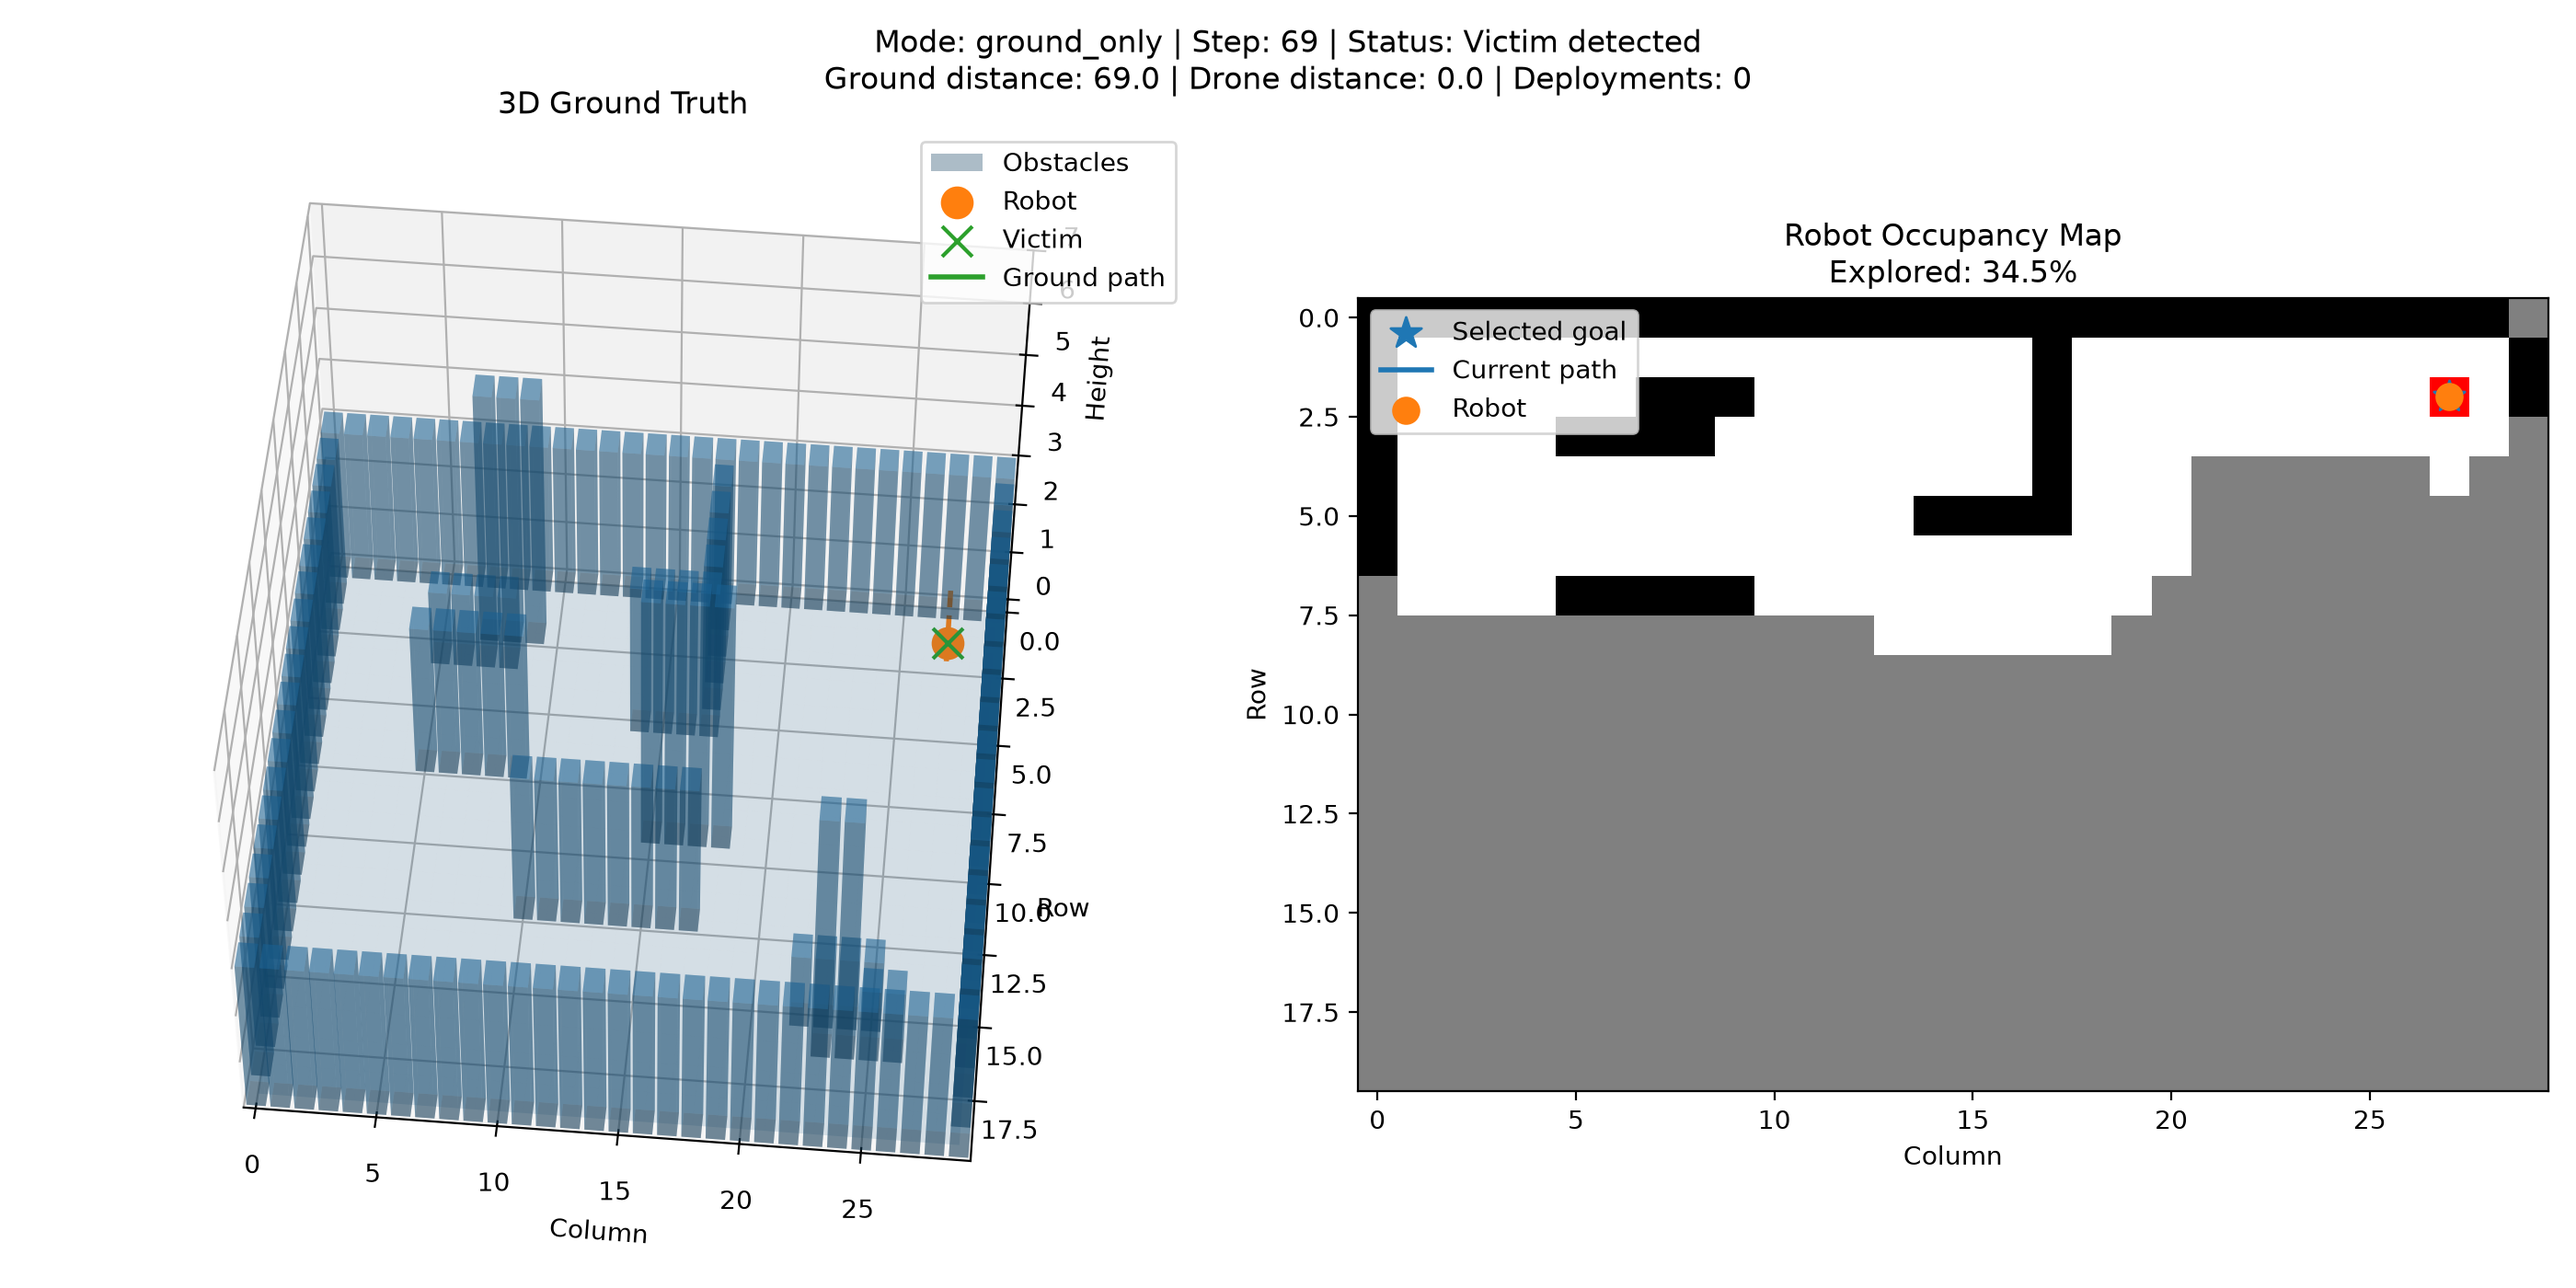
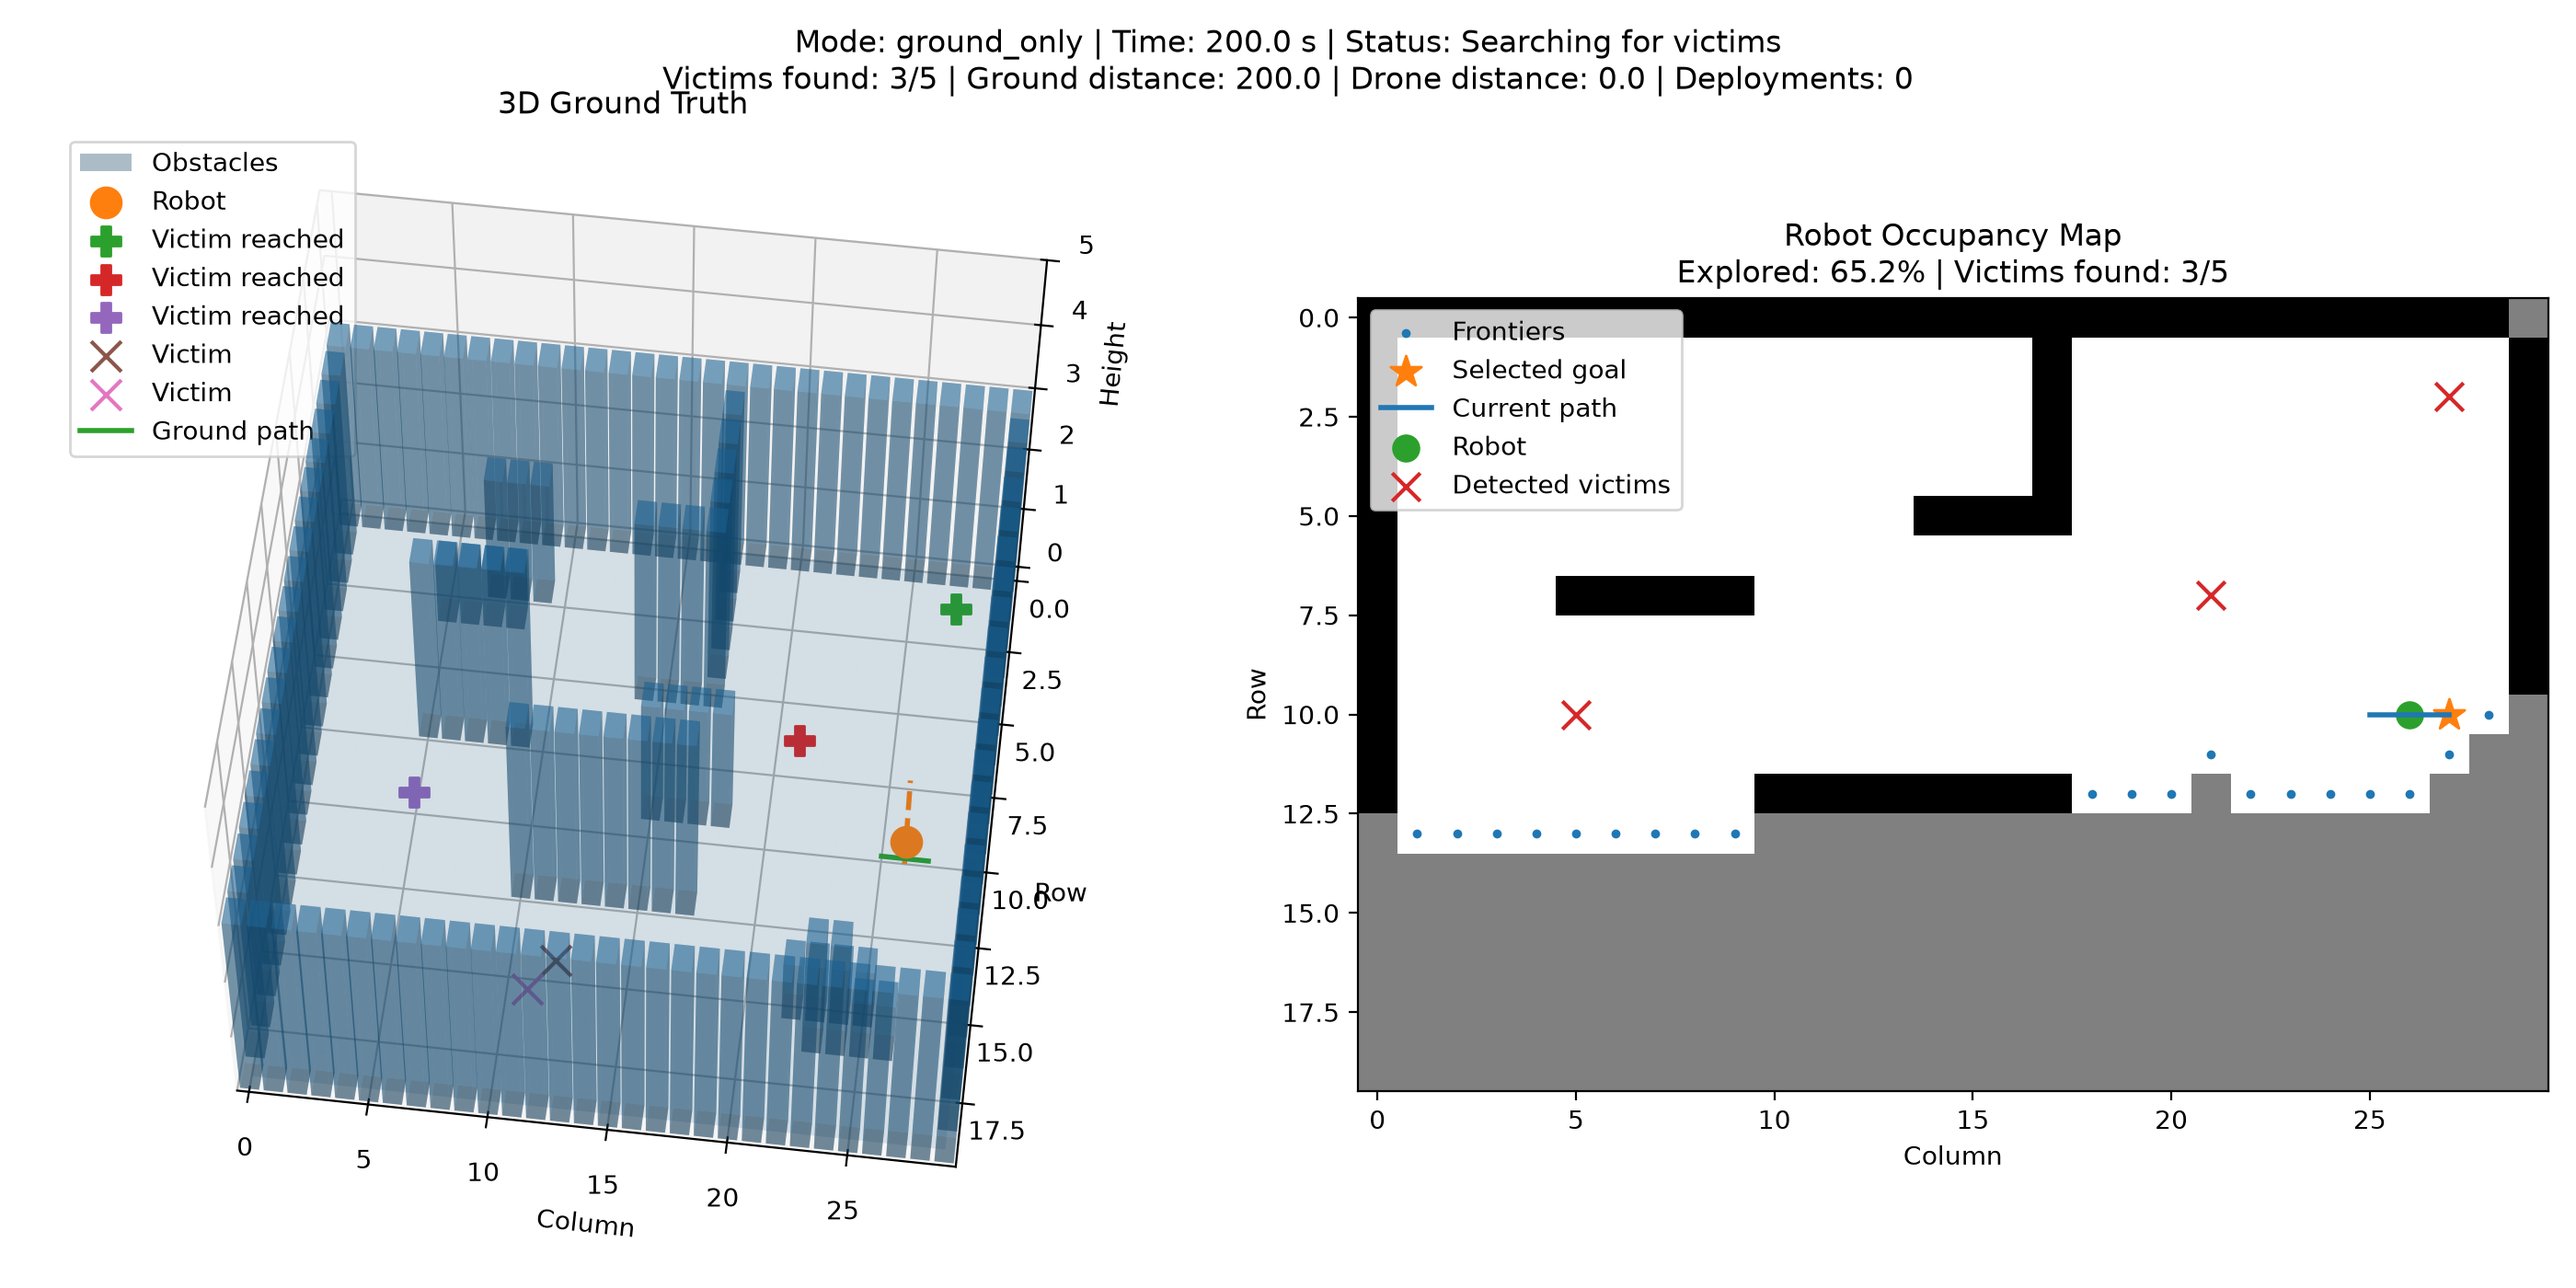
lotta testing

diff --git a/mapping.py b/mapping.py
@@ -56,6 +56,17 @@ class OccupancyMap:
         self.grid[row, col] = FREE
 
         return True
+    
+    def mark_victim_reached(self, environment, position):
+        victim = environment.get_victim_at_position(position)
+
+        if victim is None:
+            return False
+
+        victim.detected = True
+        victim.reached = True
+
+        return True
 
     def get_detected_victims(self):
         return sorted(self.detected_victims)

diff --git a/main.py b/main.py
@@ -63,6 +63,7 @@ def visualize(environment, occupancy_map, robot, drone, path, frontiers, selecte
 
     # 3D ground-truth plot
     true_world_plot = plt.subplot(1, 2, 1, projection="3d")
+    true_world_plot.format_coord = lambda x, y: ""
 
     floor_x, floor_y = np.meshgrid(np.arange(cols), np.arange(rows))
     floor_z = np.zeros_like(floor_x, dtype=float)

diff --git a/config.py b/config.py
@@ -1,4 +1,4 @@
-MAP_FILE = "maps/map1.txt"
+MAP_FILE = "maps/map4.txt"
 
 # cell values
 UNKNOWN = -1
@@ -16,7 +16,7 @@ SMART_DRONE = "smart_drone"
 EXPERIMENT_MODE = GROUND_ONLY
 
 # simulation
-MISSION_TIME_LIMIT = 120.0
+MISSION_TIME_LIMIT = 200.0
 EXPLORATION_COMPLETE_PERCENT = 95.0
 VISUALIZATION_DELAY = 0.01
 
